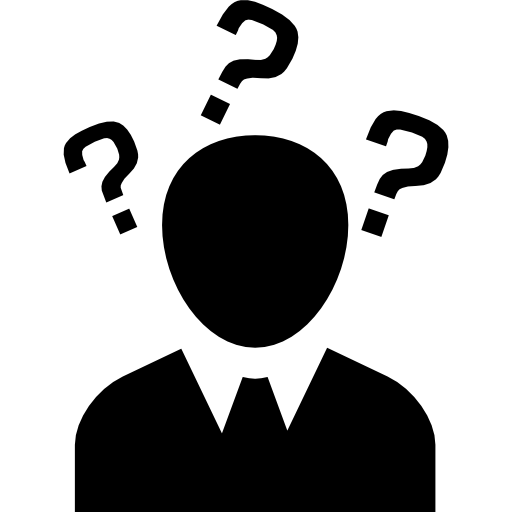
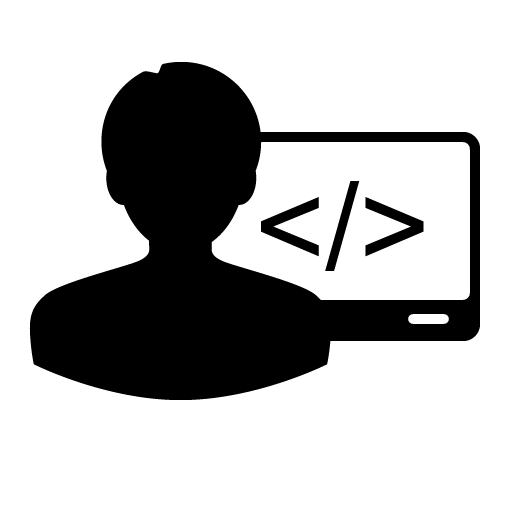
alterado sobre

diff --git a/lib/pages/home.dart b/lib/pages/home.dart
@@ -45,8 +45,8 @@ class _HomeState extends State<Home> {
             return cardOpcaoHome(
               largura: largura,
               altura: altura,
-              palavraPrimaria: "Dúvidas sobre",
-              palavraSecundaria: "Dimensionamentos",
+              palavraPrimaria: "Sobre os",
+              palavraSecundaria: "Desenvolvedores",
               urlImagem: "assets/image/page3.png",
               click: () {},
             );
